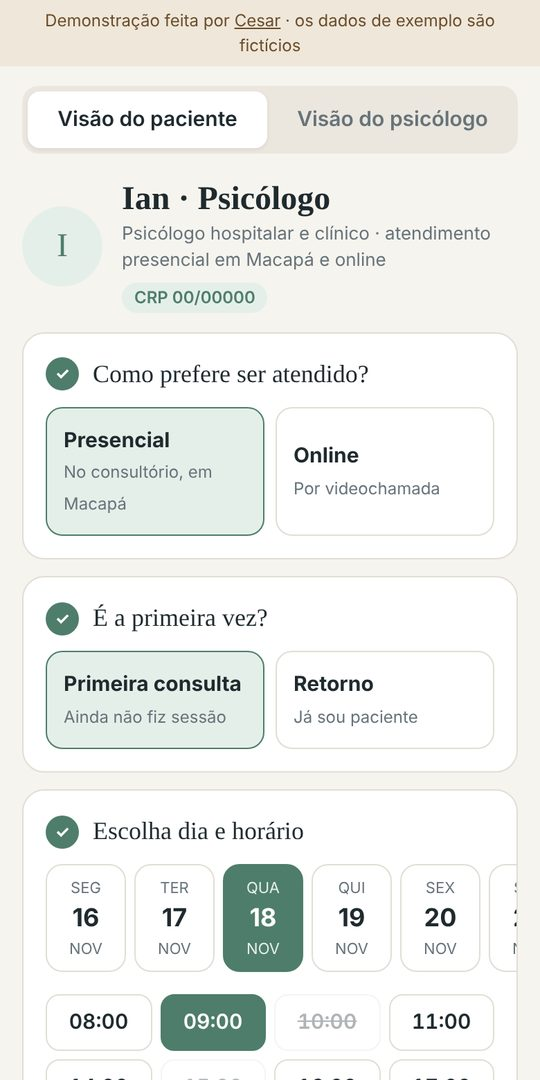
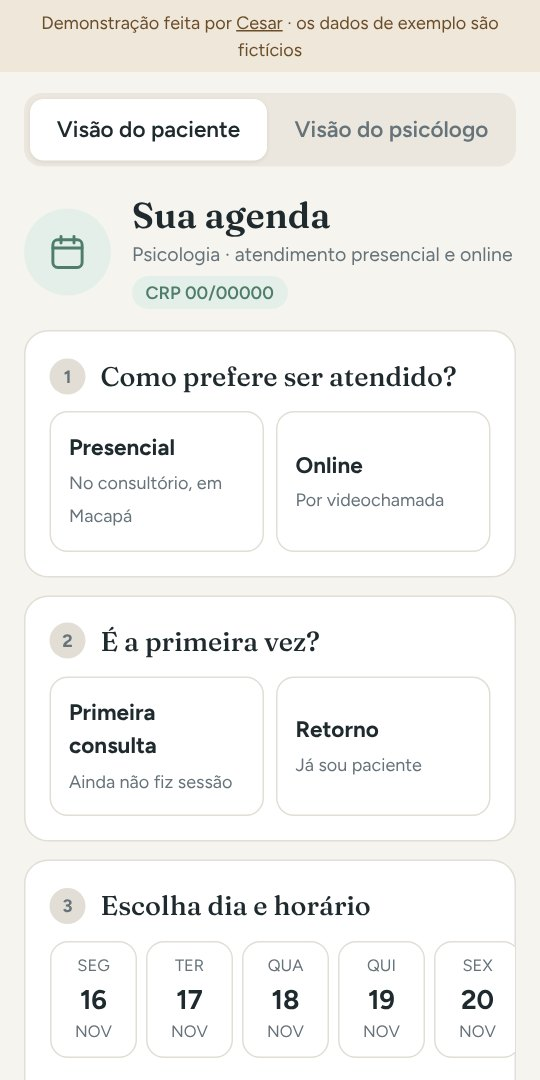
Agenda: remove o nome do profissional e atualiza fotos do portfólio
A demonstração da agenda passa a mostrar "Sua agenda" em vez de um
profissional específico. Fotos da agenda, do painel de serviços e do
placar refeitas com as fontes reais dos apps.

Claude-Session: https://claude.ai/code/session_013yfqgoVN1tG9bSuem4CFJG

diff --git a/agenda-psicologo.html b/agenda-psicologo.html
@@ -124,7 +124,7 @@ const AG=[];
 let V='pac',S={mod:null,tipo:null,dia:null,hora:null,nome:'',zap:'',conv:'Particular',lgpd:false,feito:false};
 function passo(n,ok,t){return`<div class="passo"><span class="${ok?'':'vz'}">${ok?'✓':n}</span><h2>${t}</h2></div>`}
 function vPac(){if(S.feito)return vOk();const d=S.dia;
-  return`<div class="perfil"><div class="foto" aria-hidden="true">I</div><div><h1>Ian · Psicólogo</h1><p>Psicólogo hospitalar e clínico · atendimento presencial em Macapá e online</p><span class="crp">CRP 00/00000</span></div></div>
+  return`<div class="perfil"><div class="foto" aria-hidden="true"><svg viewBox="0 0 24 24" width="26" height="26" fill="none" stroke="currentColor" stroke-width="1.8" stroke-linecap="round" stroke-linejoin="round"><rect x="3" y="4.5" width="18" height="17" rx="3"/><path d="M3 9.5h18M8 2.5v4M16 2.5v4"/></svg></div><div><h1>Sua agenda</h1><p>Psicologia · atendimento presencial e online</p><span class="crp">CRP 00/00000</span></div></div>
   <div class="card">${passo(1,S.mod,'Como prefere ser atendido?')}<div class="opts">${[['pres','Presencial','No consultório, em Macapá'],['onl','Online','Por videochamada']].map(([k,t,s])=>`<button class="opt" data-mod="${k}" aria-pressed="${S.mod===k}"><b>${t}</b><small>${s}</small></button>`).join('')}</div></div>
   <div class="card">${passo(2,S.tipo,'É a primeira vez?')}<div class="opts">${[['pri','Primeira consulta','Ainda não fiz sessão'],['ret','Retorno','Já sou paciente']].map(([k,t,s])=>`<button class="opt" data-tipo="${k}" aria-pressed="${S.tipo===k}"><b>${t}</b><small>${s}</small></button>`).join('')}</div></div>
   <div class="card">${passo(3,S.hora,'Escolha dia e horário')}<div class="dias">${DIAS.map(x=>`<button class="dia" data-dia="${iso(x)}" aria-pressed="${d===iso(x)}"><small>${DS[x.getDay()]}</small><b>${x.getDate()}</b><small>${MS[x.getMonth()]}</small></button>`).join('')}</div>
@@ -138,7 +138,7 @@ function vPac(){if(S.feito)return vOk();const d=S.dia;
    <p class="err" id="err"></p>
    <button class="btn" id="agendar">Agendar consulta</button></div>`}
 function vOk(){const d=new Date(S.dia+'T00:00');
-  return`<div class="card ok"><div class="sel" aria-hidden="true">✓</div><h2>Consulta agendada</h2><p style="margin:0;color:var(--cinza)">O Ian recebe o aviso na hora e você recebe um lembrete no WhatsApp um dia antes.</p>
+  return`<div class="card ok"><div class="sel" aria-hidden="true">✓</div><h2>Consulta agendada</h2><p style="margin:0;color:var(--cinza)">O psicólogo recebe o aviso na hora e você recebe um lembrete no WhatsApp um dia antes.</p>
   <dl class="res"><dt>Quando</dt><dd>${fmt(d)}, às ${S.hora}</dd><dt>Como</dt><dd>${S.mod==='pres'?'Presencial, em Macapá':'Online, por videochamada'}</dd><dt>Tipo</dt><dd>${S.tipo==='pri'?'Primeira consulta':'Retorno'}</dd><dt>Paciente</dt><dd>${esc(S.nome)}</dd></dl>
   <div class="zap"><small>Lembrete que chega no WhatsApp um dia antes</small>Olá, ${esc(S.nome.split(' ')[0])}! Lembrando da sua sessão amanhã às ${S.hora}${S.mod==='onl'?' (online, o link chega 15 min antes)':''}. Responda <b>1</b> para confirmar ou <b>2</b> para remarcar.</div>
   <button class="btn sec" id="ver-psi">Ver como chega pro psicólogo</button><button class="btn sec" id="novo">Fazer outro agendamento</button></div>`}
